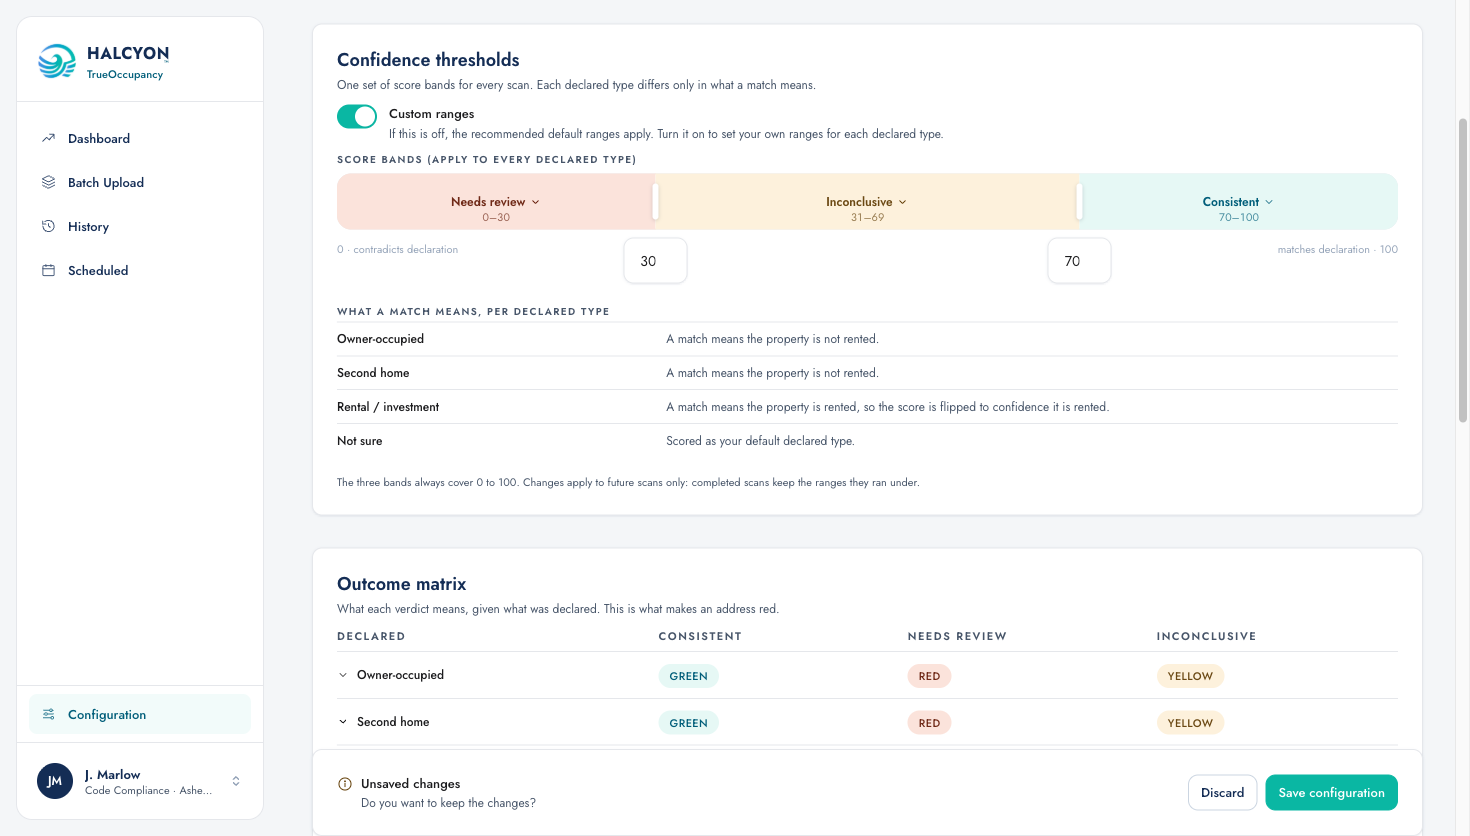
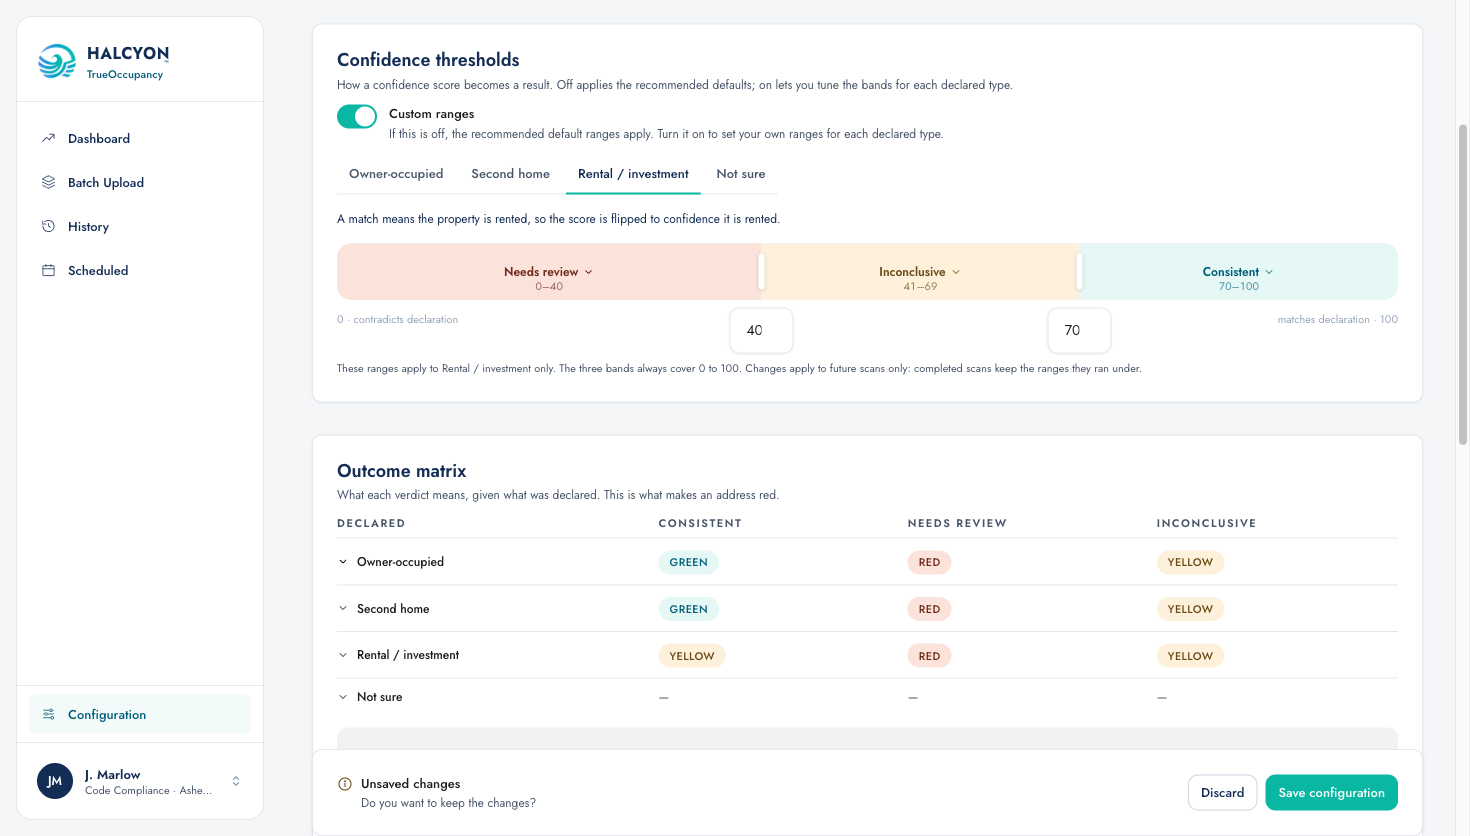
feat(config): restore per-type editable bars in Custom mode; keep universal Off view (Trello #67)
Custom (switch on) goes back to per-type customization: tabs for each
declared type, each with its own editable bar, so a type can diverge
(e.g. a rental that needs a higher score to read Consistent). Off
(switch off) keeps the simplified universal panel: one shared set of
bands stated once, plus the per-type match meanings, read-only.

bandRow (single) becomes bandRows (per type again), seeded identical
from DEFAULT_BAND_ROW; the neutral contradicts/matches scale and the
per-type meaning line stay.

diff --git a/src/pages/ScanConfigScreen.tsx b/src/pages/ScanConfigScreen.tsx
@@ -70,7 +70,7 @@ const MATRIX_HEADER_LABEL: Record<string, string> = {
 // is a full row of its own here, seeded with a deliberately wide
 // Needs-review middle.
 //
-// Screen-local design prototype: `bandRow` is not yet part of OccConfig.
+// Screen-local design prototype: `bandRows` are not yet part of OccConfig.
 // Two recorded-not-resolved owner questions: (1) how this maps onto
 // thresholds + outcomeMatrix, which together encode the same information
 // today (hi/lo stay dormant on state so the saved shape is unchanged);
@@ -92,14 +92,13 @@ const OUTCOME_KEYS = ['consistent', 'needsReview', 'inconclusive'];
  *  ranges are 0–b1, (b1+1)–(b2−1), b2–100. */
 type BandRow = { order: [string, string, string]; b1: number; b2: number };
 
-// Recommended default. ONE universal band applies to every declared type,
-// because the ranges are identical everywhere: a contradiction reads low
-// (Needs review 0–30), the ambiguous middle is Inconclusive (31–69), a match
-// reads high (Consistent 70–100). The flip lives in the SCORE, not the layout:
-// the score is "confidence the finding matches the declaration", and for a
-// rental a match means rented while for owner-occupied it means not rented.
-// So the UI shows the bar ONCE and defines each type's meaning separately,
-// rather than repeating the same bar per type. See intentMatchIsRented.
+// Recommended default band, applied to every declared type to start: a
+// contradiction reads low (Needs review 0–30), the ambiguous middle is
+// Inconclusive (31–69), a match reads high (Consistent 70–100). The score is
+// "confidence the finding matches the declaration"; the flip lives in what a
+// match MEANS (rented for a rental, not rented for owner-occupied), not in
+// the layout. Default (off) mode shows this one shared set; Custom (on) mode
+// lets each type diverge from it. See intentMatchIsRented / matchMeaningLine.
 const DEFAULT_BAND_ROW: BandRow = { order: ['needsReview', 'inconclusive', 'consistent'], b1: 30, b2: 70 };
 
 /** Whether a MATCH for this declared type means the property is rented. True
@@ -626,12 +625,16 @@ function ScanConfigScreen({
   const [notSureResolveAs, setNotSureResolveAs] = React.useState<string>(seed.notSureResolveAs ?? 'owner-occupied');
   const [hi, setHi] = React.useState(seedInvalid ? 25 : seed.thresholds.rentedAtOrAbove);
   const [lo, setLo] = React.useState(seedInvalid ? 60 : seed.thresholds.notRentedAtOrBelow);
-  // ONE universal band shared by every declared type (client call: the ranges
-  // are identical, only the score flips per type, so show the bar once). hi/lo
-  // above stay dormant so the saved config shape is unchanged while the
-  // mapping onto it is an open owner question. No seedInvalid variant: two
-  // boundaries make invalid tiling inexpressible, so there is no error state.
-  const [bandRow, setBandRow] = React.useState<BandRow>(DEFAULT_BAND_ROW);
+  // Per-type editable bands. Default mode shows them as one universal set
+  // (they start identical); Custom mode lets each declared type diverge, so
+  // the state is keyed per type. hi/lo above stay dormant so the saved config
+  // shape is unchanged while the mapping onto it is an open owner question.
+  // No seedInvalid variant: two boundaries make invalid tiling inexpressible.
+  const [bandRows, setBandRows] = React.useState<Record<string, BandRow>>(() =>
+    Object.fromEntries(OCC_INTENTS.map((i: string) => [i, { ...DEFAULT_BAND_ROW }]))
+  );
+  // Which type's bar is on screen in Custom mode.
+  const [editIntent, setEditIntent] = React.useState('owner-occupied');
   // One section-level switch (client call): off = every type uses the
   // recommended defaults, shown read-only; on = the tabs + editable bars.
   const [bandsCustom, setBandsCustom] = React.useState<boolean>(
@@ -652,7 +655,7 @@ function ScanConfigScreen({
   // Save flow: confirm → saving → saved. `baseline` is the last-saved snapshot;
   // dirty compares the live values against it so the footer collapses on save.
   const snapshot = () =>
-    JSON.stringify({ defaultIntent, notSureResolve, notSureResolveAs, hi, lo, bandRow, bandsCustom, matrix, recurring, staleDays, timeoutOn, timeoutValue, timeoutUnit });
+    JSON.stringify({ defaultIntent, notSureResolve, notSureResolveAs, hi, lo, bandRows, bandsCustom, matrix, recurring, staleDays, timeoutOn, timeoutValue, timeoutUnit });
   const [baseline, setBaseline] = React.useState(() =>
     JSON.stringify({
       defaultIntent: seed.defaultIntent,
@@ -660,7 +663,7 @@ function ScanConfigScreen({
       notSureResolveAs: seed.notSureResolveAs ?? 'owner-occupied',
       hi: seedInvalid ? 25 : seed.thresholds.rentedAtOrAbove,
       lo: seedInvalid ? 60 : seed.thresholds.notRentedAtOrBelow,
-      bandRow: DEFAULT_BAND_ROW,
+      bandRows: Object.fromEntries(OCC_INTENTS.map((i: string) => [i, { ...DEFAULT_BAND_ROW }])),
       bandsCustom: !!(seed.categoryThresholds && Object.keys(seed.categoryThresholds).length),
       matrix: seed.outcomeMatrix,
       recurring: seed.recurring,
@@ -679,16 +682,17 @@ function ScanConfigScreen({
   // validity is structural, nothing gates Save. (occThresholdError still
   // guards the dormant hi/lo pair at the state level but no longer gates this
   // screen.)
-  const setRowBoundary = (which: 'b1' | 'b2', n: number) =>
-    setBandRow((r) => ({ ...r, [which]: n }));
-  const reassignSegment = (idx: number, outcome: string) =>
-    setBandRow((r) => {
+  const setRowBoundary = (intent: string, which: 'b1' | 'b2', n: number) =>
+    setBandRows((rows) => ({ ...rows, [intent]: { ...rows[intent], [which]: n } }));
+  const reassignSegment = (intent: string, idx: number, outcome: string) =>
+    setBandRows((rows) => {
+      const r = rows[intent];
       const from = r.order.indexOf(outcome as any);
-      if (from === idx || from < 0) return r;
+      if (from === idx || from < 0) return rows;
       const order = [...r.order] as BandRow['order'];
       order[from] = order[idx];
       order[idx] = outcome;
-      return { ...r, order };
+      return { ...rows, [intent]: { ...r, order } };
     });
   const dirty = forceDirty || snapshot() !== baseline;
 
@@ -701,7 +705,7 @@ function ScanConfigScreen({
     setNotSureResolveAs(b.notSureResolveAs);
     setHi(b.hi);
     setLo(b.lo);
-    setBandRow(b.bandRow ?? DEFAULT_BAND_ROW);
+    setBandRows(b.bandRows ?? Object.fromEntries(OCC_INTENTS.map((i: string) => [i, { ...DEFAULT_BAND_ROW }])));
     setBandsCustom(!!b.bandsCustom);
     setMatrix(b.matrix);
     setRecurring(b.recurring);
@@ -795,7 +799,7 @@ function ScanConfigScreen({
            ThresholdBandPreview stays dormant below. */}
       <ConfigSection
         title="Confidence thresholds"
-        desc="One set of score bands for every scan. Each declared type differs only in what a match means."
+        desc="How a confidence score becomes a result. Off applies the recommended defaults; on lets you tune the bands for each declared type."
       >
         {/* Same toggle pattern as every other switch on this screen (AI report,
             Session timeout): bold label + muted description, switch on the
@@ -809,27 +813,39 @@ function ScanConfigScreen({
 
         <div className="mt-stack-md">
           {bandsCustom ? (
-            <>
-              {/* ONE universal bar for all types (the ranges are identical). */}
-              <div className="font-sans text-eyebrow font-semibold tracking-[0.14em] uppercase mb-2" style={{ color: 'var(--ink-3)' }}>
-                Score bands (apply to every declared type)
-              </div>
-              <OutcomeBandStrip
-                row={bandRow}
-                onReassign={reassignSegment}
-                onChangeB1={(n: number) => setRowBoundary('b1', n)}
-                onChangeB2={(n: number) => setRowBoundary('b2', n)}
-              />
-              {/* Then each type defined separately: only its meaning differs. */}
-              <div className="font-sans text-eyebrow font-semibold tracking-[0.14em] uppercase mt-section-sub mb-1" style={{ color: 'var(--ink-3)' }}>
-                What a match means, per declared type
-              </div>
-              <TypeMeaningList notSureResolveAs={notSureResolve ? notSureResolveAs : 'owner-occupied'} />
-              <p className="font-sans text-micro text-ink-3 leading-relaxed m-0 mt-stack">
-                The three bands always cover 0 to 100. Changes apply to future scans only: completed
-                scans keep the ranges they ran under.
-              </p>
-            </>
+            (() => {
+              // Custom mode: each declared type has its own editable bar, so a
+              // type can diverge from the shared default (e.g. a rental that
+              // needs a higher score to read Consistent). The scale is neutral
+              // (contradicts ↔ matches); the meaning line says what a match is.
+              const matchRented = intentMatchIsRented(editIntent, notSureResolve ? notSureResolveAs : 'owner-occupied');
+              return (
+                <>
+                  {/* Four declared types as real tabs. */}
+                  <Tabs
+                    value={editIntent}
+                    onChange={(v: string) => setEditIntent(v)}
+                    items={OCC_INTENTS.map((i: string) => ({ value: i, label: OCC_INTENT_LABEL[i] }))}
+                  />
+                  <p className="font-sans text-caption m-0 mt-stack" style={{ color: 'var(--ink-2)' }}>
+                    {matchMeaningLine(editIntent, matchRented)}
+                  </p>
+                  <div className="mt-stack">
+                    <OutcomeBandStrip
+                      row={bandRows[editIntent]}
+                      onReassign={(i: number, k: string) => reassignSegment(editIntent, i, k)}
+                      onChangeB1={(n: number) => setRowBoundary(editIntent, 'b1', n)}
+                      onChangeB2={(n: number) => setRowBoundary(editIntent, 'b2', n)}
+                    />
+                  </div>
+                  <p className="font-sans text-micro text-ink-3 leading-relaxed m-0 mt-stack">
+                    These ranges apply to {OCC_INTENT_LABEL[editIntent]} only. The three bands always
+                    cover 0 to 100. Changes apply to future scans only: completed scans keep the ranges
+                    they ran under.
+                  </p>
+                </>
+              );
+            })()
           ) : (
             <DefaultsInfo notSureResolveAs={notSureResolve ? notSureResolveAs : 'owner-occupied'} />
           )}
